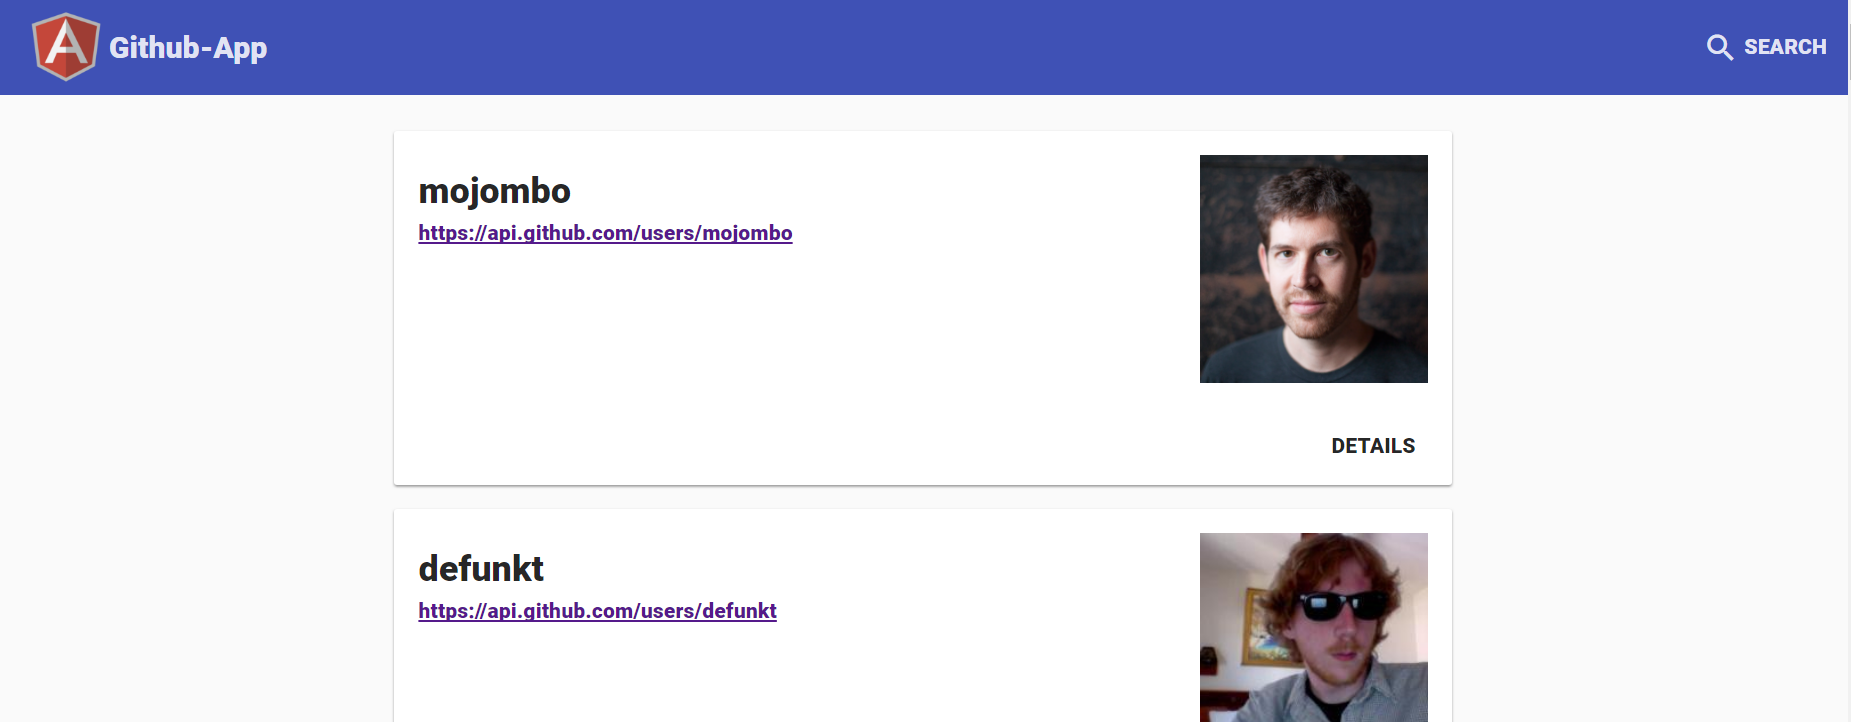
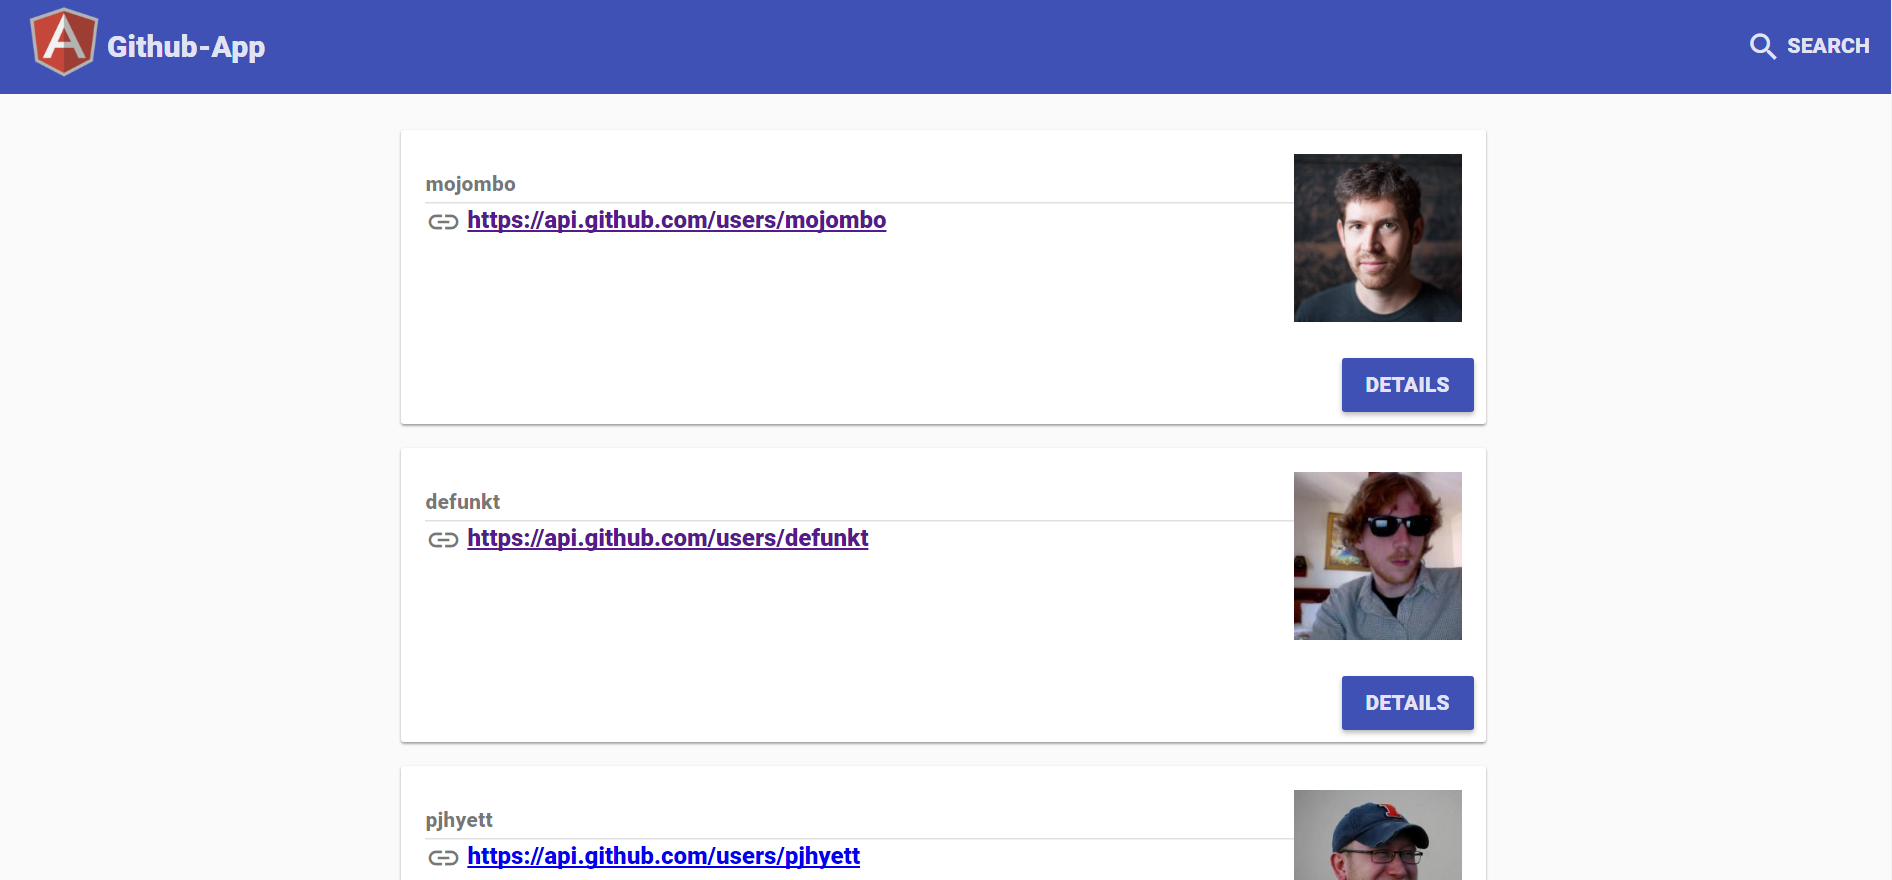
WIP: user details page

diff --git a/src/app/pages/user-details/user-details.component.html b/src/app/pages/user-details/user-details.component.html
@@ -1,0 +1,39 @@
+<md-content layout-align="center" class="md-padding" layout-xs="column" layout="row">
+    <div flex-xs flex-gt-xs="60" layout="column">
+        <user ng-if="$ctrl.user.name !== undefined" data="$ctrl.user"></user>
+        <div layout="row">
+            <!-- FOLLOWERS -->
+            <div flex>
+                <md-card>
+                    <md-card-title>
+                        <md-card-title-text>
+                            <span class="md-headline center">{{ $ctrl.user.followers }}</span>
+                            <span class="md-subhead center">FOLLOWERS</span>
+                        </md-card-title-text>
+                    </md-card-title>
+                </md-card>
+            </div>
+
+            <!-- REPOSITORIES -->
+            <div flex>
+                <md-card>
+                    <md-card-title>
+                        <md-card-title-text>
+                            <span class="md-headline center">{{ $ctrl.user.public_repos }}</span>
+                            <span class="md-subhead center">REPOSITORIES</span>
+                        </md-card-title-text>
+                    </md-card-title>
+                </md-card>
+            </div>
+        </div>
+        <div ng-if="$ctrl.user.name === undefined && $ctrl.isLoaded">
+            <div layout="row" layout-align="center">
+                <div>
+                    USER
+                    <u>{{$ctrl.login}}</u> NOT FOUND
+                </div>
+            </div>
+        </div>
+    </div>
+
+</md-content>

diff --git a/src/app/components/user/user.component.html b/src/app/components/user/user.component.html
@@ -1,18 +1,28 @@
 <md-card>
     <md-card-title>
         <md-card-title-text>
-            <span class="md-headline">{{ $ctrl.data.login }}</span>
-            <span class="md-subhead">
+            <span class="md-headline">{{ $ctrl.data.name }}</span>
+            <span class="md-subhead">{{ $ctrl.data.login }}</span>
+            <md-divider></md-divider>
+            <span>
+                <md-icon>link</md-icon>
                 <a href="{{ $ctrl.data.url }}">{{ $ctrl.data.url }}</a>
+            </span>
+            <span ng-if="$ctrl.data.location">
+                <md-icon>home</md-icon>
+                <span class="md-subhead">{{ $ctrl.data.location }}</span>
             </span>
         </md-card-title-text>
         <md-card-title-media>
-            <div class="md-media-lg card-media">
+            <div class="md-media-md card-media">
                 <img ng-cloak ng-src="{{$ctrl.data.avatar_url}}" class="md-avatar" alt="{{$ctrl.data.login}}" />
             </div>
         </md-card-title-media>
     </md-card-title>
     <md-card-actions ng-if="$ctrl.data.name === undefined" layout="row" layout-align="end center">
-        <md-button>Details</md-button>
+        <md-button class="md-raised md-primary" href="/Users/{{ $ctrl.data.login }}">
+            Details
+        </md-button>
+
     </md-card-actions>
 </md-card>

diff --git a/src/app/app.module.js b/src/app/app.module.js
@@ -14,8 +14,11 @@ import ngMaterial from 'angular-material';
 import UserService from './services/user.service';
 
 import AppComponent from './app.component';
+
 import UserComponent from './components/user/user.component';
 import UsersComponent from './pages/users/users.component';
+
+import UserDetailsComponent from './pages/user-details/user-details.component';
 
 import SearchComponent from './pages/search/search.component';
 import NotFoundComponent from './pages/notfound/notfound.component';
@@ -42,7 +45,8 @@ angular
   .component('notfound', NotFoundComponent)
   .component('user', UserComponent)
   .component('users', UsersComponent)
-  .component('search', SearchComponent);
+  .component('search', SearchComponent)
+  .component('userdetails', UserDetailsComponent);
 
 
 

diff --git a/src/app/pages/search/search.component.js b/src/app/pages/search/search.component.js
@@ -1,11 +1,17 @@
 const SearchController = function (userService) {
-    this.user = [];
+    this.user = {};
+    this.textSearched = "";
+    this.isLoaded = false;
 
     this.$routerOnActivate = function (next, previous) {
-        let textSearched = next.params.textSearched;
-        return userService.get({ login: textSearched }, (user) => {
+        this.textSearched = next.params.textSearched;
+        return userService.get({ login: this.textSearched }, (user) => {
             this.user = user;
-        });
+            this.isLoaded = true;
+        }, (error) => {
+            // error handler
+            this.isLoaded = true;
+        })
     }
 };
 

diff --git a/src/app/pages/user-details/user-details.component.js b/src/app/pages/user-details/user-details.component.js
@@ -1,0 +1,23 @@
+const UserDetailsController = function (userService) {
+    this.user;
+    this.isLoaded = false;
+    this.login = "";
+
+    this.$routerOnActivate = function (next, previous) {
+        this.login = next.params.login;
+         userService.get({ login: this.login }, (user) => {
+            this.user = user;
+            this.isLoaded = true;
+        },  (error) => {
+            // error handler
+            this.isLoaded = true;
+        });
+    }
+};
+
+const UserDetailsComponent = {
+    template: require('./user-details.component.html'),
+    controller: ['userService', UserDetailsController]
+};
+
+export default UserDetailsComponent;

diff --git a/src/app/pages/search/search.component.html b/src/app/pages/search/search.component.html
@@ -1,5 +1,12 @@
 <md-content layout-align="center" class="md-padding" layout-xs="column" layout="row">
     <div flex-xs flex-gt-xs="60" layout="column">
-        <user data="$ctrl.user"></user>
+        <user ng-if="$ctrl.user.name !== undefined" data="$ctrl.user"></user>
+        <div ng-if="$ctrl.user.name === undefined && $ctrl.isLoaded">
+            <div layout="row" layout-align="center">
+                <div>
+                    USER <u>{{$ctrl.textSearched}}</u> NOT FOUND
+                </div>
+            </div>
+        </div>
     </div>
 </md-content>

diff --git a/src/app/app.component.html b/src/app/app.component.html
@@ -3,9 +3,11 @@
     <md-toolbar>
       <!-- Pre-Search Bar -->
       <div id="search-bar" ng-show="$ctrl.showPreSearchBar()" class="md-toolbar-tools">
-        <img src="/img/logo.png" class="logo">
+        <div>
+          <img ng-cloak src="/img/logo.png" class="logo" alt="Logo" />
+        </div>
         <h2>
-         <a ng-href="/"> Github-App</a>
+          <a ng-href="/"> Github-App</a>
         </h2>
         <span flex></span>
 

diff --git a/src/app/app.component.js b/src/app/app.component.js
@@ -3,6 +3,7 @@ let AppComponent = {
     template: require('./app.component.html'),
     $routeConfig: [
         { path: '/', component: 'users', name: 'Users', useAsDefault: true },
+        { path: '/Users/:login', component: 'userdetails', name: 'UserDetails' },
         { path: '/Search/:textSearched', component: 'search', name: 'Search' },
         { path: '/**', component: 'notfound', name: 'NotFound' }
     ],

diff --git a/src/style/app.css b/src/style/app.css
@@ -4,6 +4,10 @@
   margin: 5px;
 }
 
+.center { 
+  text-align: center;
+}
+
 /* SEARCH */
 .search-bar { background-color: #222; }
 .search-bar * { color: white !important; }

diff --git a/README.md b/README.md
@@ -22,6 +22,9 @@ go to [http://localhost:8080](http://localhost:8080) in your browser.
 ### Users page ([http://localhost:8080/](http://localhost:8080/)): 
 ![alt text](https://github.com/lapusneanugabi/github-app/blob/master/src/public/img/users.png "Users page")
 
+### User details page ([http://localhost:8080/Users/mojombo](http://localhost:8080/Users/mojombo)): 
+![alt text](https://github.com/lapusneanugabi/github-app/blob/master/src/public/img/userdetails.png "User details page")
+
 ### Search page ([http://localhost:8080/Search/mojombo](http://localhost:8080/Search/mojombo)):
 ![alt text](https://github.com/lapusneanugabi/github-app/blob/master/src/public/img/search.png "Search page")
 
